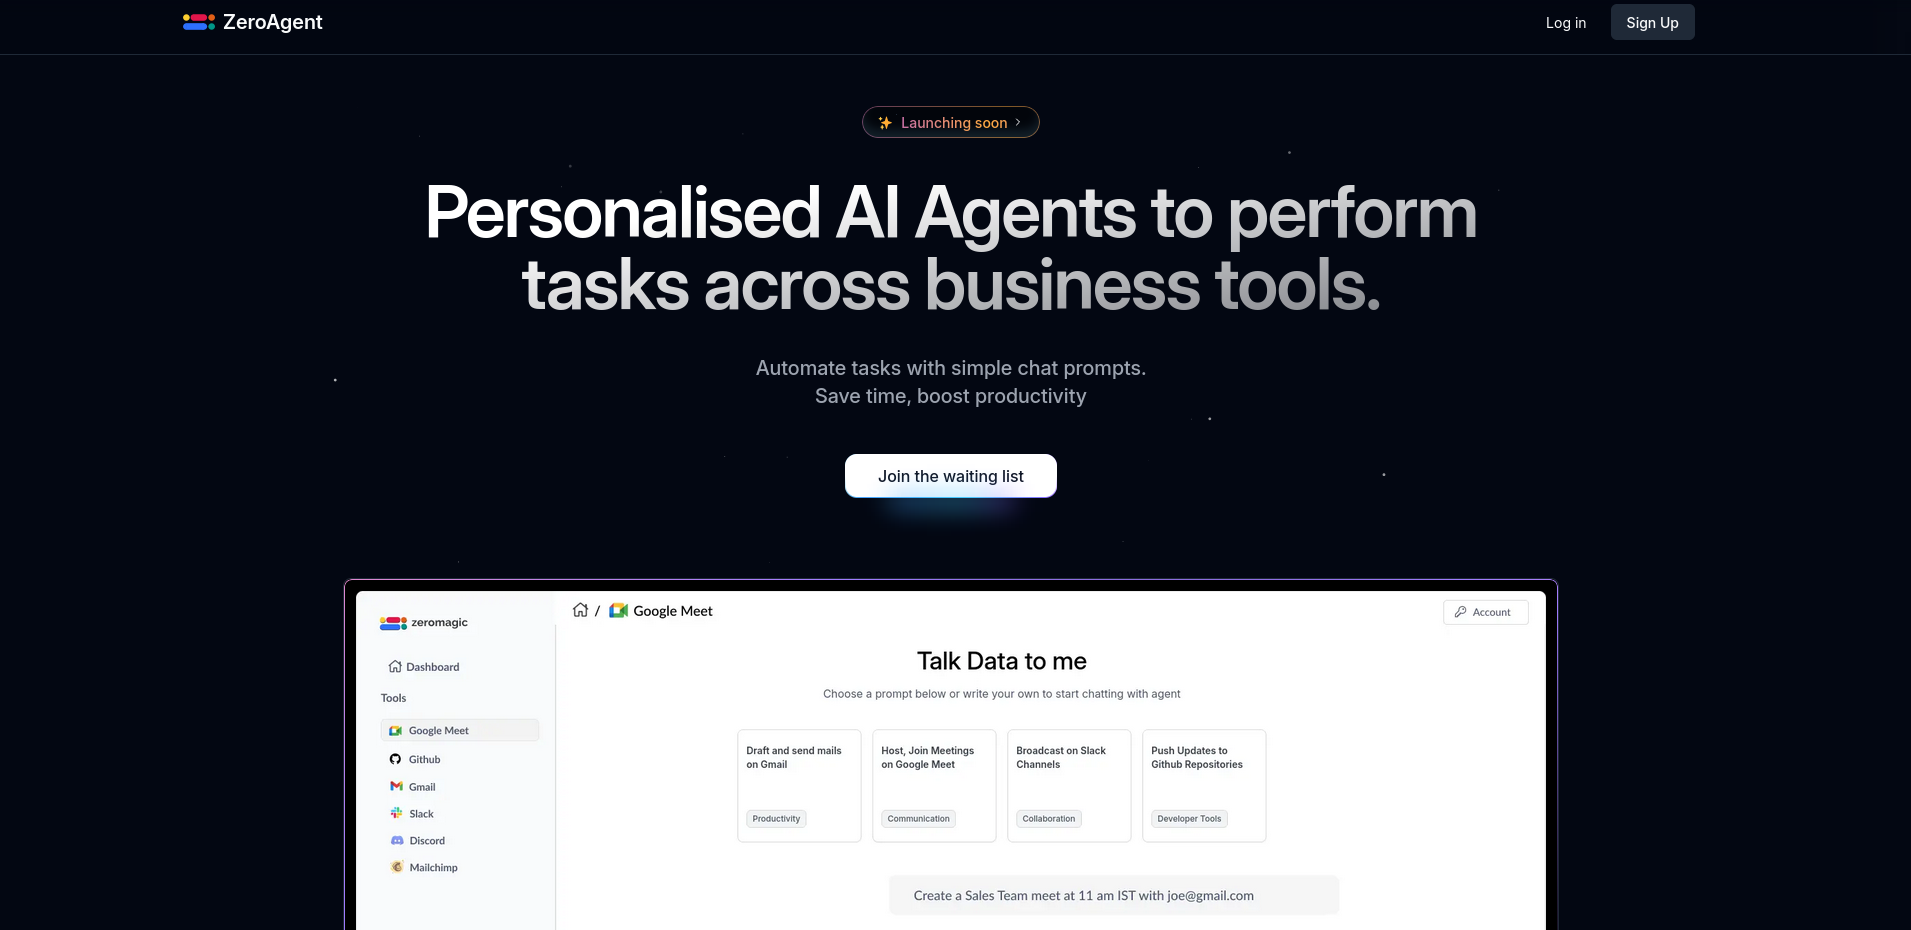
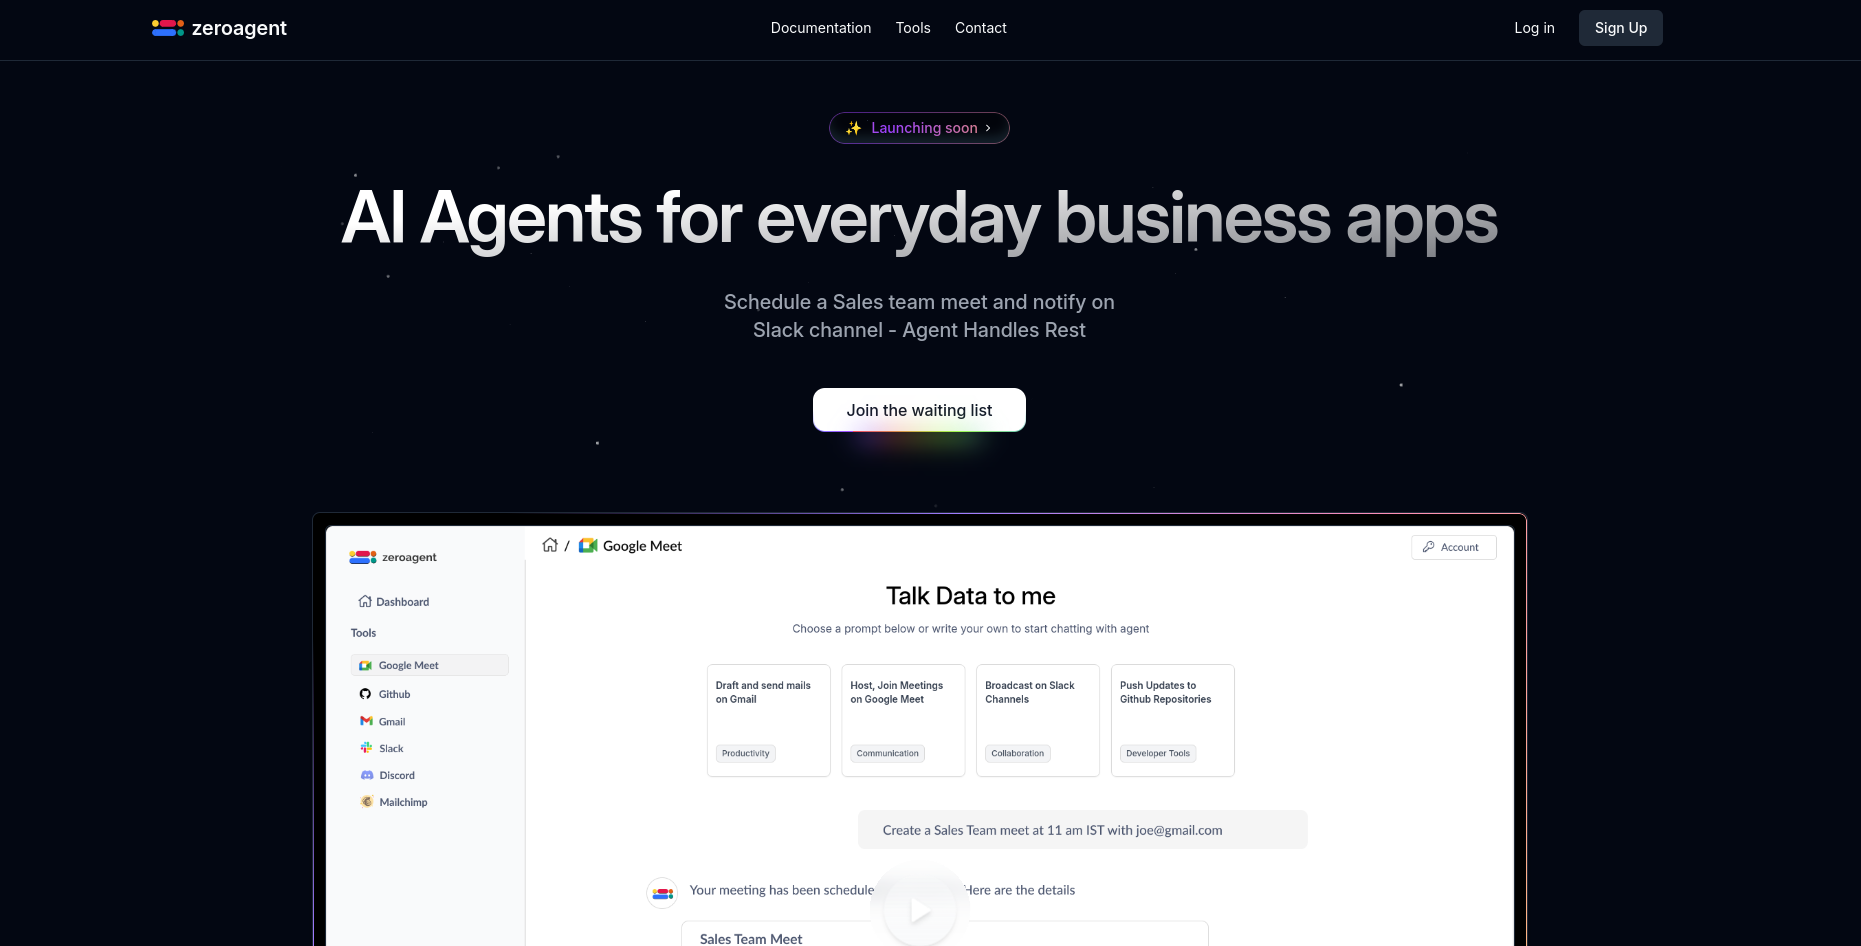
SEO updated

diff --git a/app/layout.tsx b/app/layout.tsx
@@ -18,49 +18,55 @@ const geistMono = localFont({
 
 export const metadata: Metadata = {
   title: "ZeroAgent",
-  description:
-    "Streamline your workflow with our AI Agents that connect across various business tools. Automate tasks effortlessly using simple chat prompts.",
+  description: 
+  "Simplify your day-to-day business operations with AI Agents. Connect, manage, and execute tasks across multiple apps in one platform using simple chat prompts. Work smarter by eliminating repetitive work!",    
   icons: [
     { rel: "icon", url: Logo },
     { rel: "apple-touch-icon", url: Logo },
   ],
-  applicationName : "ZeroAgent",
-  referrer : "origin",  
+  applicationName: "AI Agents for everyday Business apps - ZeroAgent",
+  referrer: "origin",
   keywords: [
     "AI Agent",
-    "Personalized AI",
-    "Integrations",
+    "Apps", 
     "Task Automation",
-    "Business Tools",
-    "Business Productivity",
-    "Integrations",
-    "Workflow Automation",
+    "Business Apps",
+    "Tools",
+    "Productivity",
+    "Integrations", 
   ],
   authors: [
     { name: "ZeroMagic Labs", url: "https://github.com/teamzeromagic" },
     { name: "ZeroAgent", url: "https://zeroagent.io/" },
   ],
   openGraph: {
-    title: "Personalized AI Agent for Business Tools",
-    description:
-      "Leverage the power of AI to manage tasks across Google Calendar, Slack, and more with our Personalized AI Agents.",
+    title: "AI Agents for everyday Business apps",
+    description: 
+  "Simplify your day-to-day business operations with AI Agents. Connect, manage, and execute tasks across multiple apps in one platform using simple chat prompts. Work smarter by eliminating repetitive work!",    
     url: "https://zeroagent.io/", // Replace with your actual website URL
     siteName: "ZeroAgent",
     images: [
       {
-        url: Thumbnail.src,  
+        url: Thumbnail.src,
         width: 1200,
         height: 630,
         alt: "ZeroAgents in Action",
       },
     ],
+    videos: {
+      url: "https://www.youtube.com/watch?v=wct6bzlSUOs",
+      secureUrl: "https://www.youtube.com/watch?v=wct6bzlSUOs",
+      type: "video/youtube",
+      width: 1280,
+      height: 720,
+    },
   },
   twitter: {
     card: "summary_large_image",
     // site: "@zeromagic", // Replace with your actual Twitter handle
-    title: "Personalised AI Agent - Automate Tasks Across Business Tools",
+    title: "AI Agents for everyday Business apps",
     description:
-      "Experience seamless task automation across business tools with our Personalised AI Agents.",
+  "Simplify your day-to-day business operations with AI Agents. Connect, manage, and execute tasks across multiple apps in one platform using simple chat prompts. Work smarter by eliminating repetitive work!",    
     images: Thumbnail.src, // Replace with the actual image URL
   },
   verification: {
@@ -68,8 +74,12 @@ export const metadata: Metadata = {
   },
   robots: {
     index: true,
-    follow: true,
-  },
+    follow: true,    
+  },     
+  alternates : {
+    canonical : "https://zeroagent.io/"
+  }
+  
 };
 
 export default function RootLayout({
@@ -77,29 +87,56 @@ export default function RootLayout({
 }: Readonly<{
   children: React.ReactNode;
 }>) {
+
+  
+  const jsonLD =  {
+    "@context": "https://schema.org/",
+    "@type": "Organization",
+    "name": "Zeroagent",
+    "url": "https://zeroagent.io/", 
+    "headline": 'AI Agents for everyday Business apps',
+    "description": 'Simplify your day-to-day business operations with AI Agents. Connect, manage, and execute tasks across multiple apps in one platform using simple chat prompts.',
+  
+    "subjectOf": {
+      "@type": "VideoObject",
+      "name": "Demo: AI Agents for everyday Business app - Zeroagent",
+      "description": "AI Agents that connects across multiple business apps and perform tasks with simple chat prompts", 
+      "thumbnail":Thumbnail.src,
+      "embedUrl": "https://www.youtube.com/watch?v=wct6bzlSUOs",  
+  }
+  }
+
   return (
     <html lang="en" className="dark">
       <head>
-      <script async src="https://www.googletagmanager.com/gtag/js?id=G-RQMXKE8FE1"></script>
-    <script 
-     dangerouslySetInnerHTML={{
-      __html: `
+      <script
+        key="structured-data"
+        type="application/ld+json"
+        dangerouslySetInnerHTML={{ __html: JSON.stringify(jsonLD) }}
+      /> 
+
+        <script
+          async
+          src="https://www.googletagmanager.com/gtag/js?id=G-RQMXKE8FE1"                    
+        ></script>
+        <script
+          dangerouslySetInnerHTML={{
+            __html: `
          window.dataLayer = window.dataLayer || [];
       function gtag(){dataLayer.push(arguments);}
       gtag('js', new Date());
 
       gtag('config', 'G-RQMXKE8FE1');
       `,
-    }}
-    > 
-    </script>
+          }}
+        ></script>
       </head>
       <body
         className={`${geistSans.variable} ${geistMono.variable} antialiased`}
       >
         {children}
       </body>
-      <GoogleAnalytics gaId="G-RQMXKE8FE1"/>       
+      <GoogleAnalytics gaId="G-RQMXKE8FE1" />
     </html>
   );
 }

diff --git a/components/blocks/footer.tsx b/components/blocks/footer.tsx
@@ -27,14 +27,14 @@ const Footer = () => {
               </span>
             </div>
             <p className="max-w-xs text-gray-200">
-              AI Agents for Business Tools
+              AI Agents for everyday Business apps
             </p>
           </div>
           <div className="grid grid-cols-1 gap-8 sm:gap-10 sm:grid-cols-3">
             <div>
-              <h2 className="mb-6 text-sm tracking-tighter font-medium text-gray-900 uppercase dark:text-white">
+              <h4 className="mb-6 text-sm tracking-tighter font-medium text-gray-900 uppercase dark:text-white">
                 Product
-              </h2>
+              </h4>
               <ul className="gap-2 grid">
                 <li>
                   <a
@@ -49,6 +49,7 @@ const Footer = () => {
                   <a
                     className="cursor-pointer text-gray-400 hover:text-gray-200 duration-200 font-[450] text-sm"
                     href="#"
+
                   >
                     Pricing
                   </a>
@@ -64,9 +65,9 @@ const Footer = () => {
               </ul>
             </div> 
             <div>
-              <h2 className="mb-6 text-sm tracking-tighter font-medium text-gray-900 uppercase dark:text-white">
+              <h4 className="mb-6 text-sm tracking-tighter font-medium text-gray-900 uppercase dark:text-white">
                 Policy
-              </h2>
+              </h4>
               <ul className="gap-2 grid">
                 <li>
                   <a
@@ -88,9 +89,9 @@ const Footer = () => {
             </div>
 
             <div>
-              <h2 className="mb-6 text-sm tracking-tighter font-medium text-gray-900 uppercase dark:text-white">
+              <h4 className="mb-6 text-sm tracking-tighter font-medium text-gray-900 uppercase dark:text-white">
                 Connect with Us
-              </h2>
+              </h4>
               <ul className="gap-2 grid">
                 <li>
                   <a

diff --git a/components/blocks/header.tsx b/components/blocks/header.tsx
@@ -27,8 +27,8 @@ const Header = () => {
       />
       <AnimatedGradientTextDemo /> 
       <h1 className="mt-7 mb-3 bg-gradient-to-br dark:from-white from-black from-30% dark:to-white/40 to-black/40 bg-clip-text py-6 text-5xl font-semibold leading-none tracking-tight text-transparent text-balance sm:text-6xl md:text-7xl lg:text-7xl translate-y-[-1rem] animate-fade-in opacity-1 [--animation-delay:200ms]">
-        Personalised AI Agents to perform 
-        <br className="hidden md:block" />tasks across business tools.
+        AI Agents for everyday business apps 
+        {/* <br className="hidden md:block" />tasks across business tools. */}
       </h1>
 
       <p className="mb-7 text-lg leading-loose font-medium tracking-normal text-gray-400 md:text-xl text-balance translate-y-[-1rem] animate-fade-in opacity-1 [--animation-delay:400ms]">

diff --git a/components/blocks/features-bento-grid.tsx b/components/blocks/features-bento-grid.tsx
@@ -42,7 +42,7 @@ const files = [
 const features = [
   { 
     name: "Agent Connectors",
-    description: "Connect with 10+ integrations and let our agents handle daily tasks.",
+    description: "Connect with 10+ apps and let our agents handle daily tasks.",
     href: "#",
     cta: "Learn more",
     // className: "col-span-6 lg:col-span-3",
@@ -113,7 +113,7 @@ const features = [
   },
   { 
     name: "Agent Activity",
-    description: "Real-time updates from Google Meet, Calendar, Facebook, and other tools.",
+    description: "Real-time updates from Google Meet, Calendar, Facebook, and other apps.",
     href: "#",
     cta: "Learn more",
     className: "col-span-6 lg:col-span-2",

diff --git a/components/magicui/bento-grid.tsx b/components/magicui/bento-grid.tsx
@@ -52,9 +52,9 @@ const BentoCard = ({
     <div>{background}</div>
     <div className="pointer-events-none z-10 flex transform-gpu flex-col gap-1 p-6 transition-all duration-300 group-hover:-translate-y-10">
       {/* <Icon className="h-12 w-12 origin-left transform-gpu text-neutral-700 transition-all duration-300 ease-in-out group-hover:scale-75" /> */}
-      <h3 className="text-xl font-semibold text-neutral-700 dark:text-neutral-300">
+      <h2 className="text-xl font-semibold text-neutral-700 dark:text-neutral-300">
         {name}
-      </h3>
+      </h2>
       <p className="max-w-auto text-neutral-300">{description}</p>
     </div>
 

diff --git a/components/blocks/cta.tsx b/components/blocks/cta.tsx
@@ -11,9 +11,9 @@ const CTA = () => {
       <HeartHandshake className="mx-auto size-16 text-black dark:text-white lg:size-24"/>
       </div>
       <div className="z-10 mt-4 flex flex-col items-center text-center text-primary">
-        <h1 className="text-3xl font-bold lg:text-4xl">
+        <h3 className="text-3xl font-bold lg:text-4xl">
           AI Agents that Integrate & Automate
-        </h1>
+        </h3>
         <p className="mt-2">
           Start your free trial now. No credit card required.
         </p>

diff --git a/app/page.tsx b/app/page.tsx
@@ -21,7 +21,7 @@ export default function Home() {
       <br /> 
       <div className="mt-14">
       <CustomText title={"AI Agents, Business Superheroes"} />
-      <CustomDescription title={"Connect tools, Automate tasks and stay updated with AI Agents"} />      
+      <CustomDescription title={"Connect apps, Automate tasks and stay updated with AI Agents"} />      
       <FeaturesBento />
       </div>   
       {/* <div className="mt-20">
